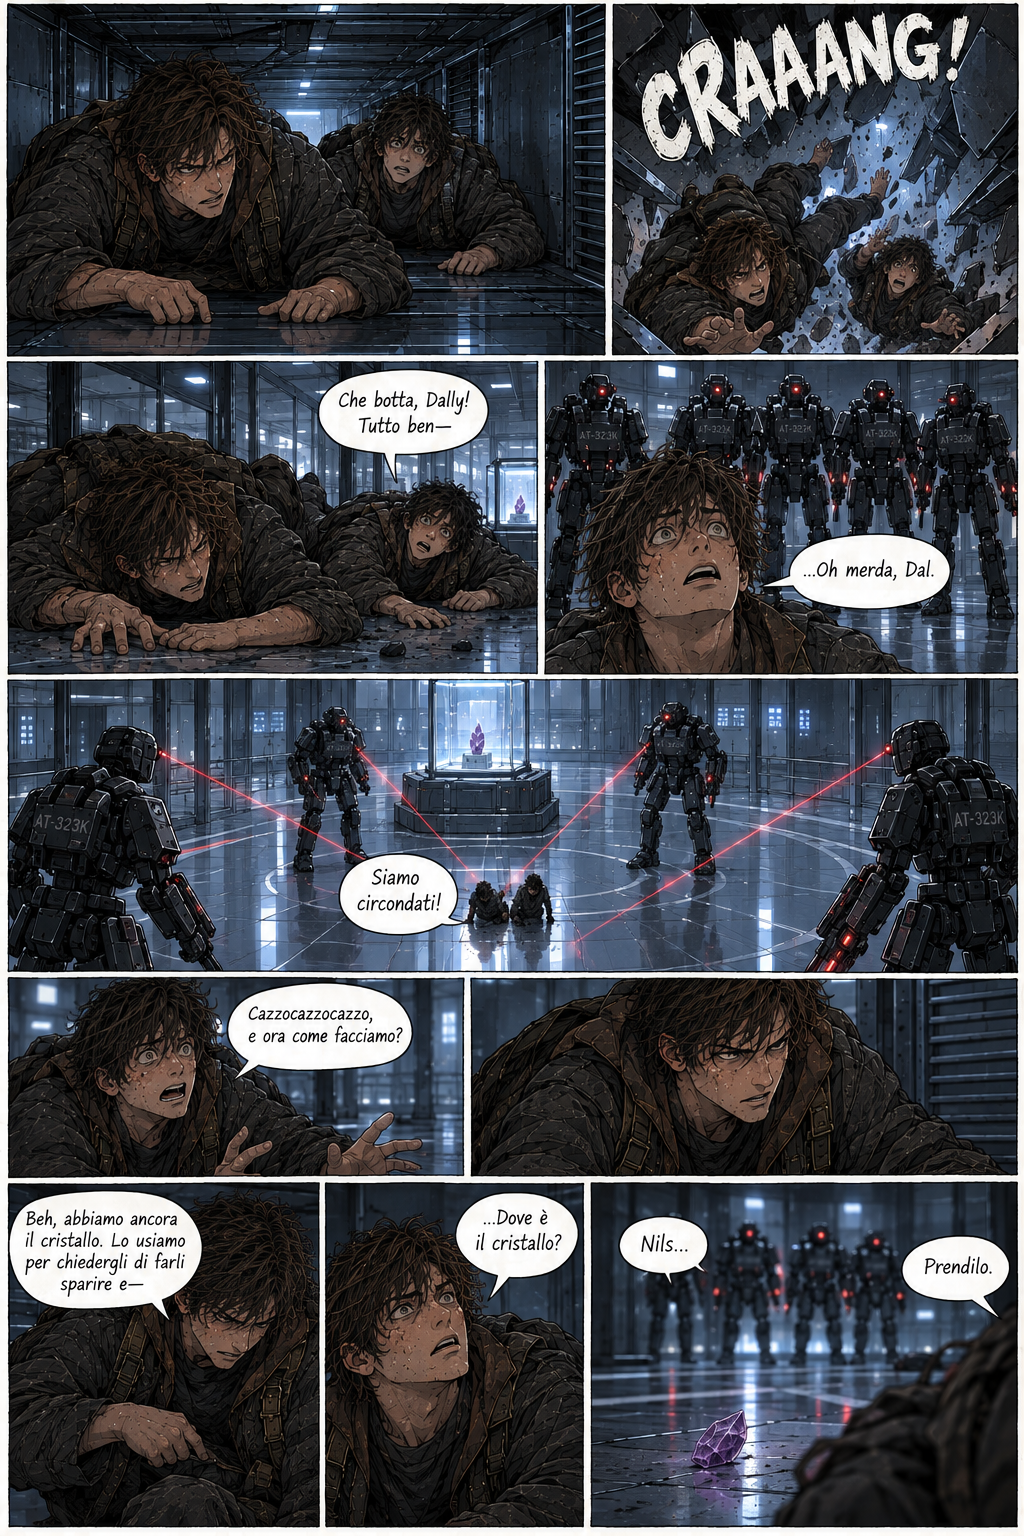
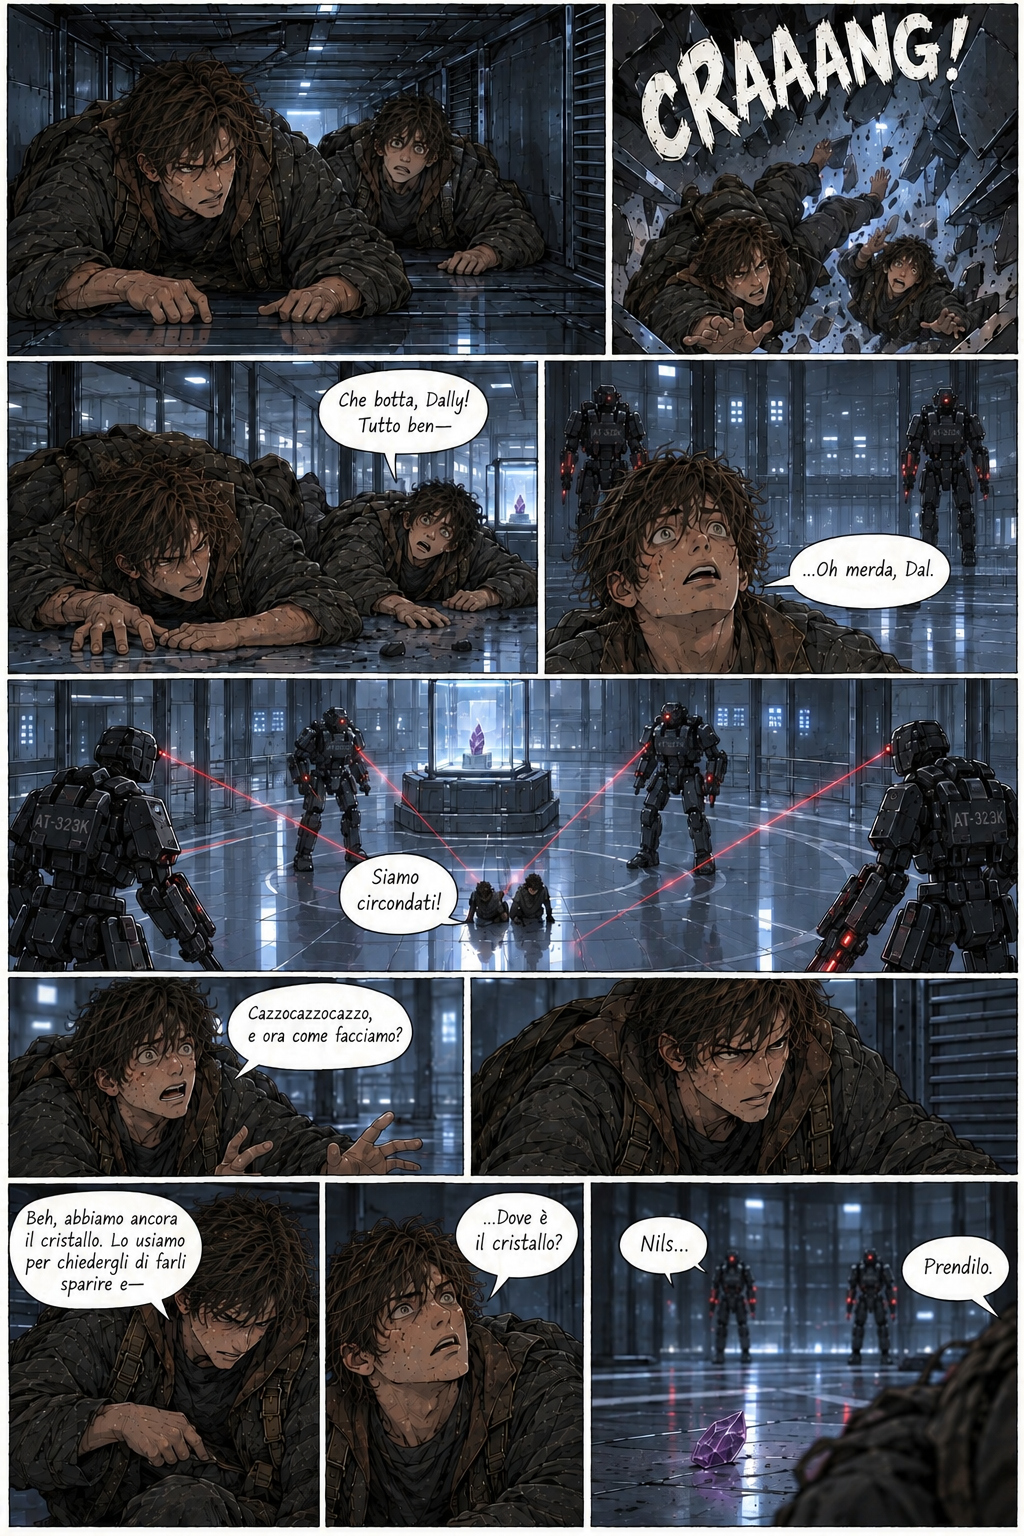
.

diff --git a/ldc/doppioscambio.html b/ldc/doppioscambio.html
@@ -43,7 +43,7 @@
 						<path d="M8.051 1.999h.089c.822.003 4.987.033 6.11.335a2.01 2.01 0 0 1 1.415 1.42c.101.38.172.883.22 1.402l.01.104.022.26.008.104c.065.914.073 1.77.074 1.957v.075c-.001.194-.01 1.108-.082 2.06l-.008.105-.009.104c-.05.572-.124 1.14-.235 1.558a2.01 2.01 0 0 1-1.415 1.42c-1.16.312-5.569.334-6.18.335h-.142c-.309 0-1.587-.006-2.927-.052l-.17-.006-.087-.004-.171-.007-.171-.007c-1.11-.049-2.167-.128-2.654-.26a2.01 2.01 0 0 1-1.415-1.419c-.111-.417-.185-.986-.235-1.558L.09 9.82l-.008-.104A31 31 0 0 1 0 7.68v-.123c.002-.215.01-.958.064-1.778l.007-.103.003-.052.008-.104.022-.26.01-.104c.048-.519.119-1.023.22-1.402a2.01 2.01 0 0 1 1.415-1.42c.487-.13 1.544-.21 2.654-.26l.17-.007.172-.006.086-.003.171-.007A100 100 0 0 1 7.858 2zM6.4 5.209v4.818l4.157-2.408z"/>
 					</svg>
 				</a><br>
-				<span class="comic-dates">Pubblicato il: 21/09/2026 - Aggiornato il: 01/10/2026</span>
+				<span class="comic-dates">Pubblicato il: 21/09/2026 - Aggiornato il: 02/10/2026</span>
 			</div>
 
 			<!-- Two columns layout -->

diff --git a/ldc/index.html b/ldc/index.html
@@ -48,7 +48,7 @@
 							</div>
 						</a>
 						<div class="update-title">Doppio Scambio</div>
-						<span class="update-date">Aggiornato: 01/10/2026</span>
+						<span class="update-date">Aggiornato: 02/10/2026</span>
 					</div>
 
 					<div class="update">
